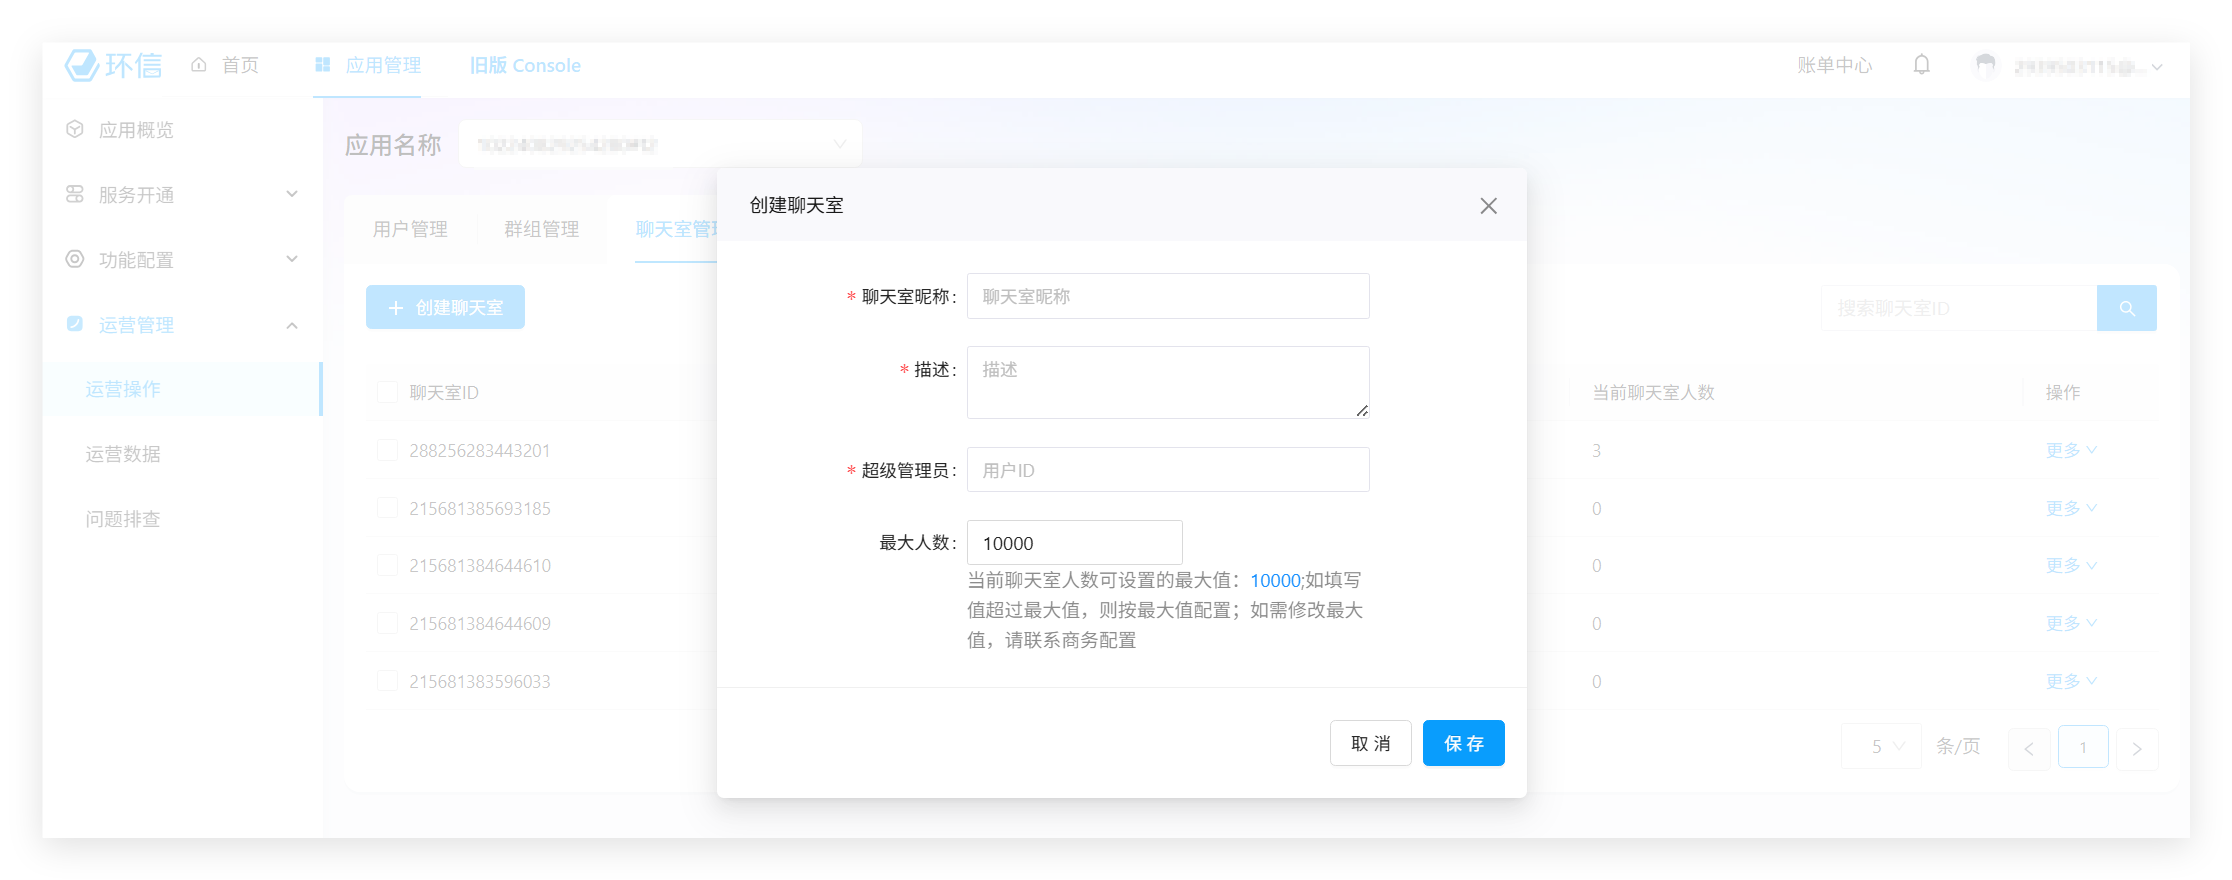
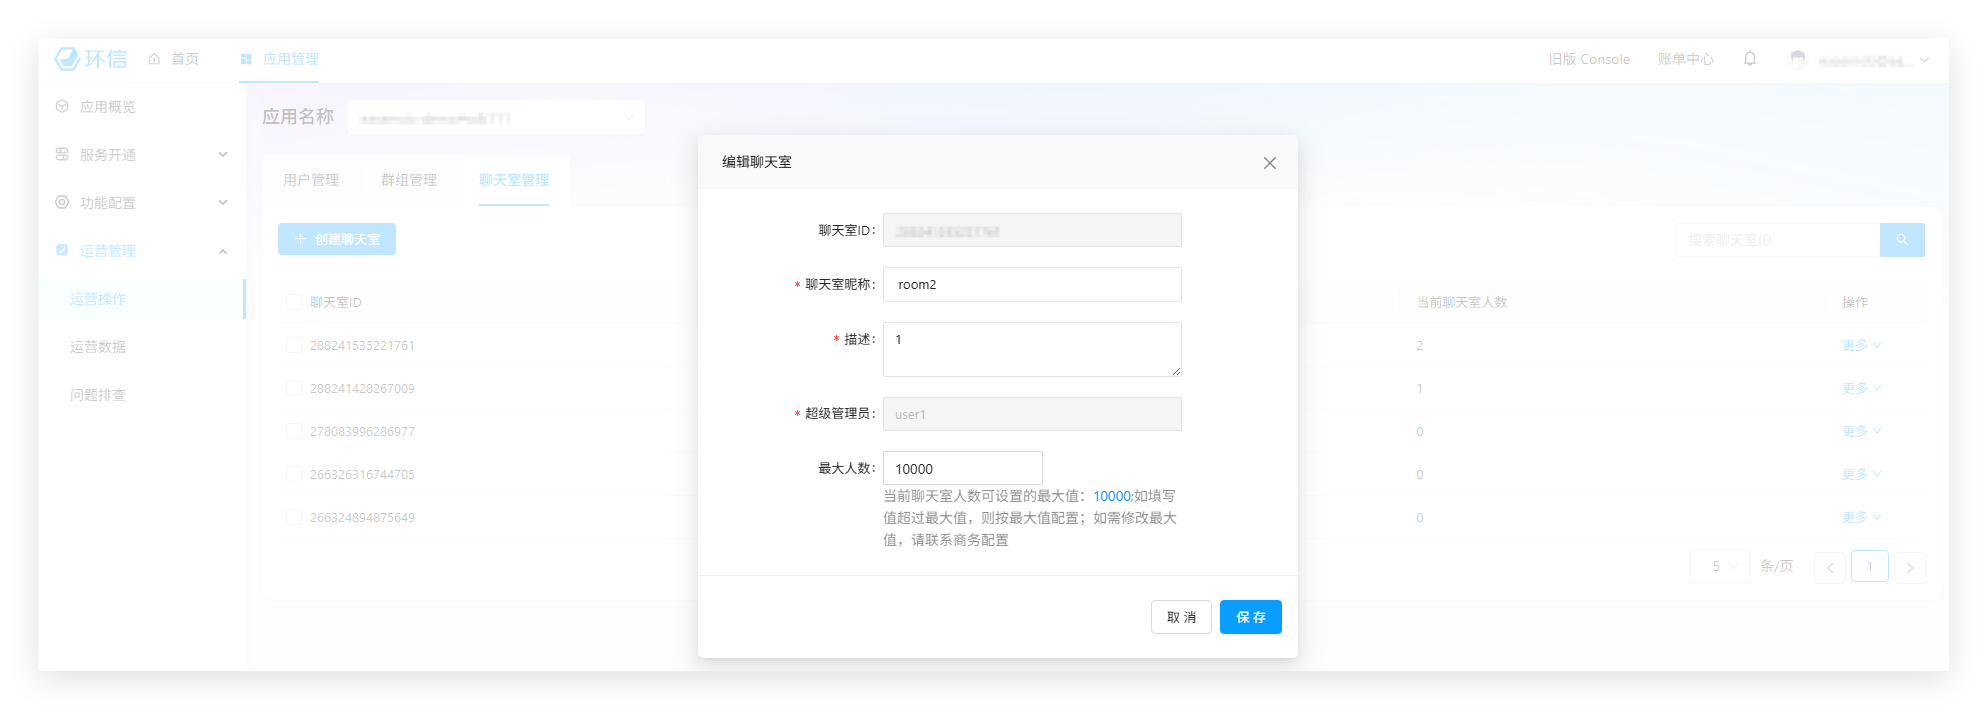
modify

diff --git a/docs/product/console/push_template.md b/docs/product/console/push_template.md
@@ -23,7 +23,7 @@
 
 | 参数            | 类型   | 描述   |
 | :-------------- | :----- | :----- | 
-| 标题/内容  | Array   | 参数的设置方式如下：<br/> - 输入固定的推送标题，例如，标题为 **您好**，内容为 **您有一条新消息**。 <br/> - 内置参数填充：1. `{$dynamicFrom}`：按优先级从高到底的顺序填充好友备注、群昵称（仅限群消息）和推送昵称。2. `{$fromNickname}`：推送昵称。 3. `{$msg}`：消息内容。<br/> - 自定义参数填充：模板输入数组索引占位符，格式为: {0} {1} {2} ... {n}  | 
+| 标题/内容  | Array   | 参数的设置方式如下：<br/> - 输入固定内容，例如，标题为 **您好**，内容为 **您有一条新消息**。 <br/> - 内置参数填充：1. `{$dynamicFrom}`：按优先级从高到底的顺序填充好友备注、群昵称（仅限群消息）和推送昵称。2. `{$fromNickname}`：推送昵称。 3. `{$msg}`：消息内容。<br/> - 自定义参数填充：模板输入数组索引占位符，格式为: {0} {1} {2} ... {n}  | 
 
 对于推送标题和内容来说，前两种设置方式在创建消息时无需传入该参数，第三种设置方式则需要通过扩展字段传入。
 

diff --git a/docs/product/console/operation_chatroom.md b/docs/product/console/operation_chatroom.md
@@ -34,8 +34,6 @@
 
 在聊天室列表中，点击指定聊天室的 **操作** 栏中的 **更多**，选择 **修改聊天室信息** 修改聊天室信息。
 
-// TODO：后台问题，需重新截图
-
 ![img](/images/console/operation_chatroom_edit.png)
 
 ### 查看聊天室成员列表
